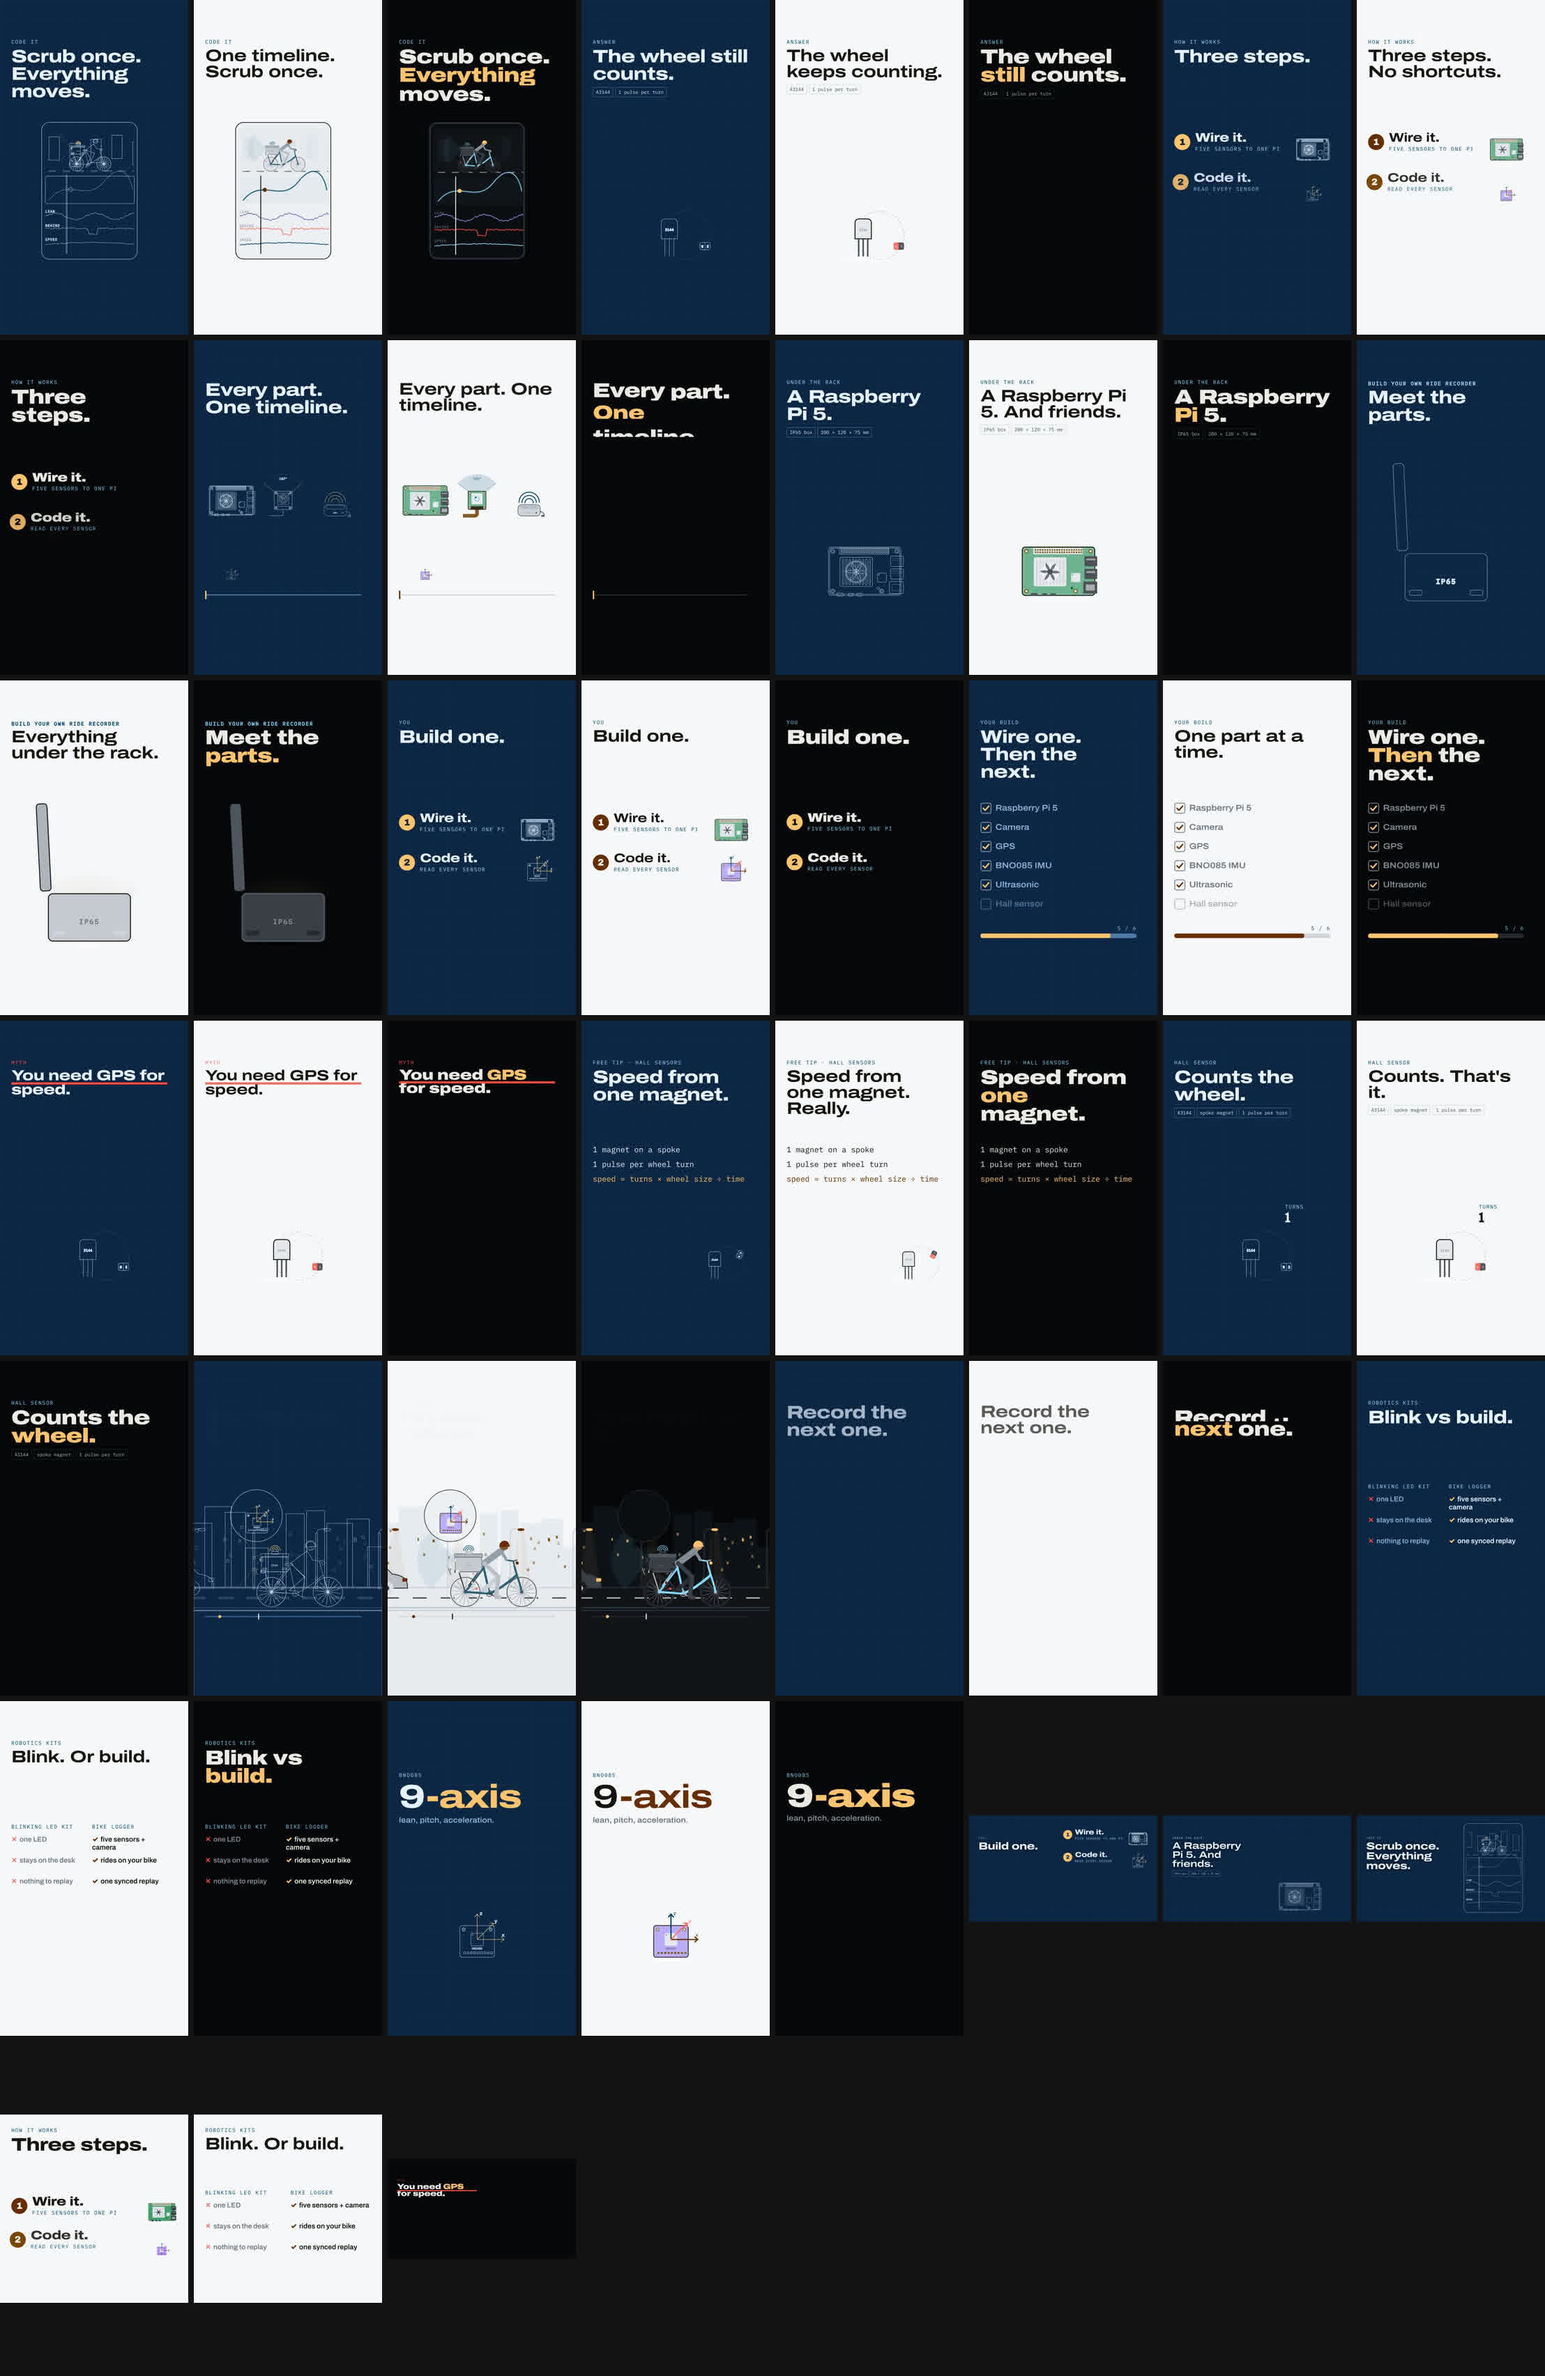
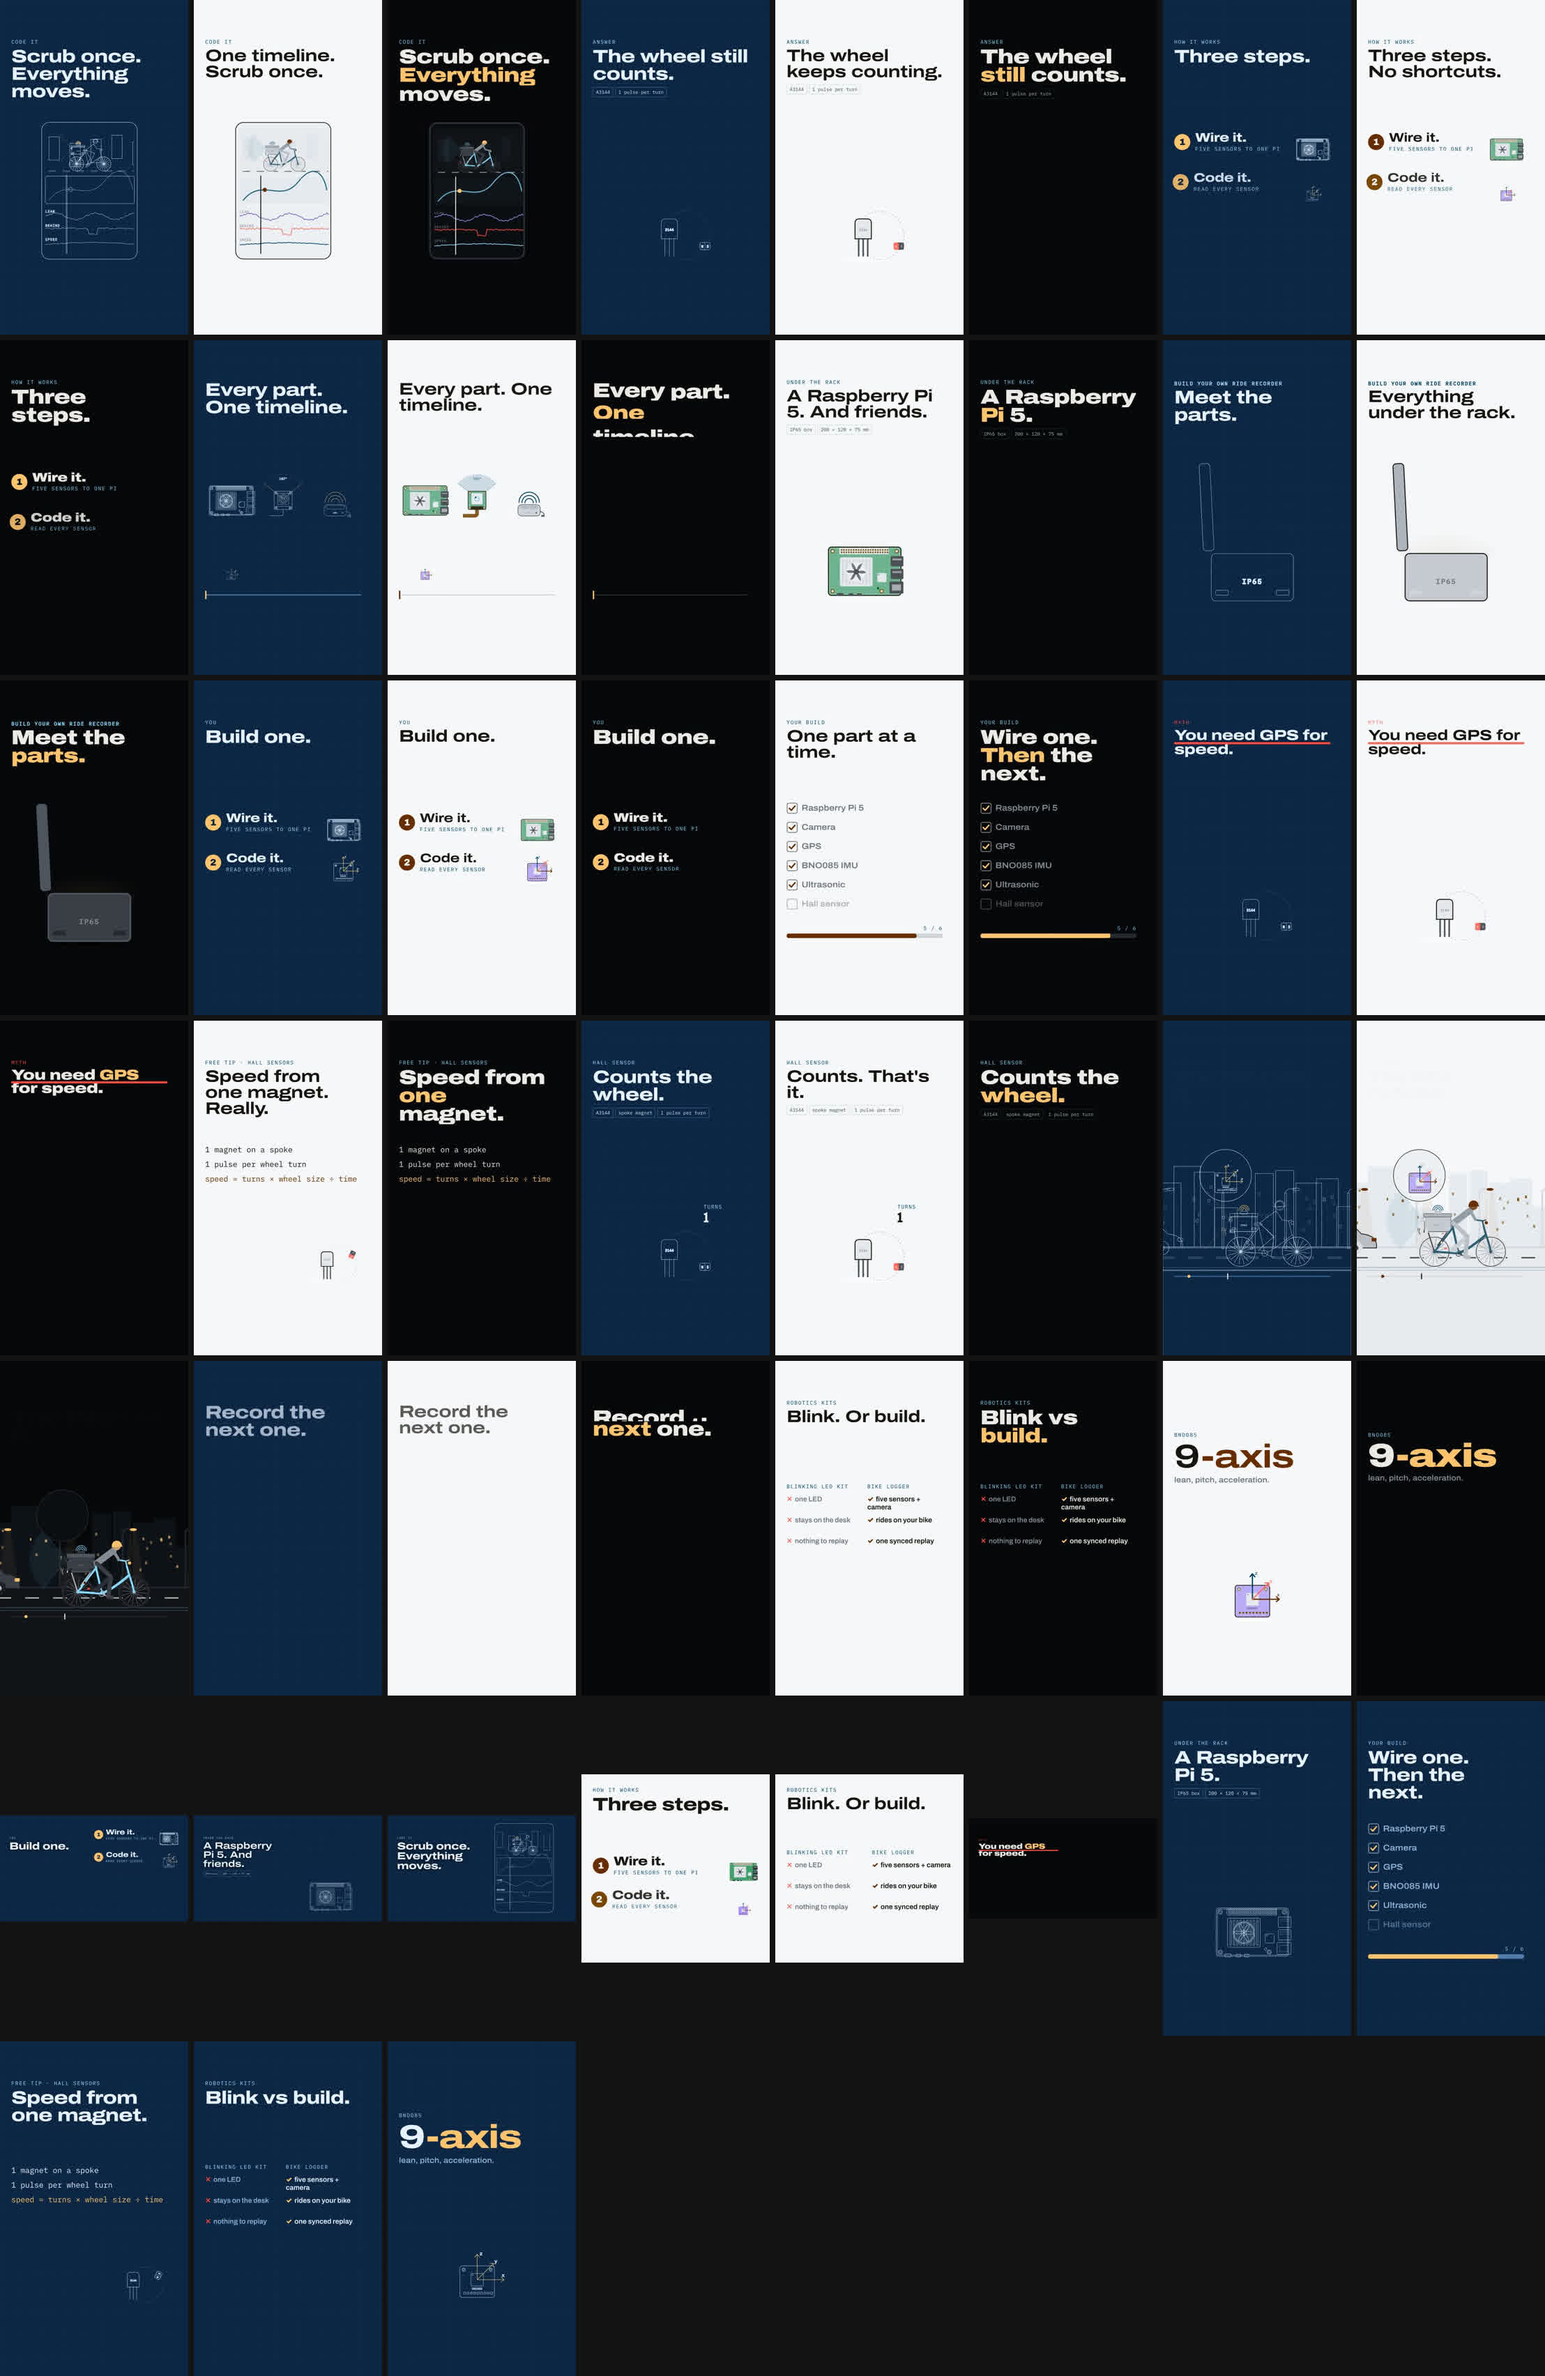
REEL-009 slice S3: QA reports after re-render (in progress)
Claude-Session: https://claude.ai/code/session_01TJ4oPX2WQDHeLGYSGVpmWK

diff --git a/productions/bike-logger/REEL-009-patterns/export/manifest.md b/productions/bike-logger/REEL-009-patterns/export/manifest.md
@@ -16,7 +16,6 @@
 | `REEL-009-unboxing-blueprint-fun-reel.mp4` | unboxing | blueprint | fun | reel | 7.8 s | 1080x1920 | 60 | ✅ |
 | `REEL-009-unboxing-daylight-adult-reel.mp4` | unboxing | daylight | adult | reel | 7.8 s | 1080x1920 | 60 | ✅ |
 | `REEL-009-unboxing-type-fun-reel.mp4` | unboxing | type | fun | reel | 7.8 s | 1080x1920 | 60 | ✅ |
-| `REEL-009-curiosity-blueprint-fun-reel.mp4` | curiosity | blueprint | fun | reel | 9.8 s | 1080x1920 | 60 | ✅ |
 | `REEL-009-curiosity-daylight-adult-reel.mp4` | curiosity | daylight | adult | reel | 9.8 s | 1080x1920 | 60 | ✅ |
 | `REEL-009-curiosity-type-fun-reel.mp4` | curiosity | type | fun | reel | 9.8 s | 1080x1920 | 60 | ✅ |
 | `REEL-009-interrupt-blueprint-fun-reel.mp4` | interrupt | blueprint | fun | reel | 9.8 s | 1080x1920 | 60 | ✅ |
@@ -25,13 +24,11 @@
 | `REEL-009-ikea-blueprint-fun-reel.mp4` | ikea | blueprint | fun | reel | 14 s | 1080x1920 | 60 | ✅ |
 | `REEL-009-ikea-daylight-adult-reel.mp4` | ikea | daylight | adult | reel | 14 s | 1080x1920 | 60 | ✅ |
 | `REEL-009-ikea-type-fun-reel.mp4` | ikea | type | fun | reel | 14 s | 1080x1920 | 60 | ✅ |
-| `REEL-009-progress-blueprint-fun-reel.mp4` | progress | blueprint | fun | reel | 10.8 s | 1080x1920 | 60 | ✅ |
 | `REEL-009-progress-daylight-adult-reel.mp4` | progress | daylight | adult | reel | 10.8 s | 1080x1920 | 60 | ✅ |
 | `REEL-009-progress-type-fun-reel.mp4` | progress | type | fun | reel | 10.8 s | 1080x1920 | 60 | ✅ |
 | `REEL-009-myth-blueprint-fun-reel.mp4` | myth | blueprint | fun | reel | 9.9 s | 1080x1920 | 60 | ✅ |
 | `REEL-009-myth-daylight-adult-reel.mp4` | myth | daylight | adult | reel | 9.9 s | 1080x1920 | 60 | ✅ |
 | `REEL-009-myth-type-fun-reel.mp4` | myth | type | fun | reel | 9.9 s | 1080x1920 | 60 | ✅ |
-| `REEL-009-reciprocity-blueprint-fun-reel.mp4` | reciprocity | blueprint | fun | reel | 8.8 s | 1080x1920 | 60 | ✅ |
 | `REEL-009-reciprocity-daylight-adult-reel.mp4` | reciprocity | daylight | adult | reel | 8.8 s | 1080x1920 | 60 | ✅ |
 | `REEL-009-reciprocity-type-fun-reel.mp4` | reciprocity | type | fun | reel | 8.8 s | 1080x1920 | 60 | ✅ |
 | `REEL-009-foot-blueprint-fun-reel.mp4` | foot | blueprint | fun | reel | 9.6 s | 1080x1920 | 60 | ✅ |
@@ -43,10 +40,8 @@
 | `REEL-009-loss-blueprint-fun-reel.mp4` | loss | blueprint | fun | reel | 9.8 s | 1080x1920 | 60 | ✅ |
 | `REEL-009-loss-daylight-adult-reel.mp4` | loss | daylight | adult | reel | 9.8 s | 1080x1920 | 60 | ✅ |
 | `REEL-009-loss-type-fun-reel.mp4` | loss | type | fun | reel | 9.8 s | 1080x1920 | 60 | ✅ |
-| `REEL-009-contrast-blueprint-fun-reel.mp4` | contrast | blueprint | fun | reel | 10.2 s | 1080x1920 | 60 | ✅ |
 | `REEL-009-contrast-daylight-adult-reel.mp4` | contrast | daylight | adult | reel | 10.2 s | 1080x1920 | 60 | ✅ |
 | `REEL-009-contrast-type-fun-reel.mp4` | contrast | type | fun | reel | 10.2 s | 1080x1920 | 60 | ✅ |
-| `REEL-009-specificity-blueprint-fun-reel.mp4` | specificity | blueprint | fun | reel | 9.2 s | 1080x1920 | 60 | ✅ |
 | `REEL-009-specificity-daylight-adult-reel.mp4` | specificity | daylight | adult | reel | 9.2 s | 1080x1920 | 60 | ✅ |
 | `REEL-009-specificity-type-fun-reel.mp4` | specificity | type | fun | reel | 9.2 s | 1080x1920 | 60 | ✅ |
 | `REEL-009-ikea-blueprint-fun-landscape.mp4` | ikea | blueprint | fun | landscape | 14 s | 1920x1080 | 60 | ✅ |
@@ -55,3 +50,8 @@
 | `REEL-009-three-daylight-fun-square.mp4` | three | daylight | fun | square | 12.2 s | 1080x1080 | 60 | ✅ |
 | `REEL-009-contrast-daylight-adult-square.mp4` | contrast | daylight | adult | square | 10.2 s | 1080x1080 | 60 | ✅ |
 | `REEL-009-myth-type-fun-banner.mp4` | myth | type | fun | banner | 9.9 s | 1200x628 | 60 | ✅ |
+| `REEL-009-curiosity-blueprint-fun-reel.mp4` | curiosity | blueprint | fun | reel | 9.8 s | 1080x1920 | 60 | ✅ |
+| `REEL-009-progress-blueprint-fun-reel.mp4` | progress | blueprint | fun | reel | 10.8 s | 1080x1920 | 60 | ✅ |
+| `REEL-009-reciprocity-blueprint-fun-reel.mp4` | reciprocity | blueprint | fun | reel | 8.8 s | 1080x1920 | 60 | ✅ |
+| `REEL-009-contrast-blueprint-fun-reel.mp4` | contrast | blueprint | fun | reel | 10.2 s | 1080x1920 | 60 | ✅ |
+| `REEL-009-specificity-blueprint-fun-reel.mp4` | specificity | blueprint | fun | reel | 9.2 s | 1080x1920 | 60 | ✅ |

diff --git a/productions/bike-logger/REEL-009-patterns/qa/REEL-009-reciprocity-blueprint-fun-reel/report.md b/productions/bike-logger/REEL-009-patterns/qa/REEL-009-reciprocity-blueprint-fun-reel/report.md
@@ -1,6 +1,6 @@
 # QA report — REEL-009-reciprocity-blueprint-fun-reel.mp4
 
-Generated 2026-11-03 21:56.
+Generated 2026-11-03 22:12.
 
 ## Specs
 

diff --git a/productions/bike-logger/REEL-009-patterns/qa/REEL-009-specificity-blueprint-fun-reel/report.md b/productions/bike-logger/REEL-009-patterns/qa/REEL-009-specificity-blueprint-fun-reel/report.md
@@ -1,6 +1,6 @@
 # QA report — REEL-009-specificity-blueprint-fun-reel.mp4
 
-Generated 2026-11-03 22:06.
+Generated 2026-11-03 22:14.
 
 ## Specs
 

diff --git a/productions/bike-logger/REEL-009-patterns/qa/REEL-009-curiosity-blueprint-fun-reel/report.md b/productions/bike-logger/REEL-009-patterns/qa/REEL-009-curiosity-blueprint-fun-reel/report.md
@@ -1,6 +1,6 @@
 # QA report — REEL-009-curiosity-blueprint-fun-reel.mp4
 
-Generated 2026-11-03 21:47.
+Generated 2026-11-03 22:12.
 
 ## Specs
 

diff --git a/productions/bike-logger/REEL-009-patterns/qa/REEL-009-contrast-blueprint-fun-reel/report.md b/productions/bike-logger/REEL-009-patterns/qa/REEL-009-contrast-blueprint-fun-reel/report.md
@@ -1,6 +1,6 @@
 # QA report — REEL-009-contrast-blueprint-fun-reel.mp4
 
-Generated 2026-11-03 22:04.
+Generated 2026-11-03 22:12.
 
 ## Specs
 

diff --git a/productions/bike-logger/REEL-009-patterns/qa/REEL-009-progress-blueprint-fun-reel/report.md b/productions/bike-logger/REEL-009-patterns/qa/REEL-009-progress-blueprint-fun-reel/report.md
@@ -1,6 +1,6 @@
 # QA report — REEL-009-progress-blueprint-fun-reel.mp4
 
-Generated 2026-11-03 21:52.
+Generated 2026-11-03 22:13.
 
 ## Specs
 
